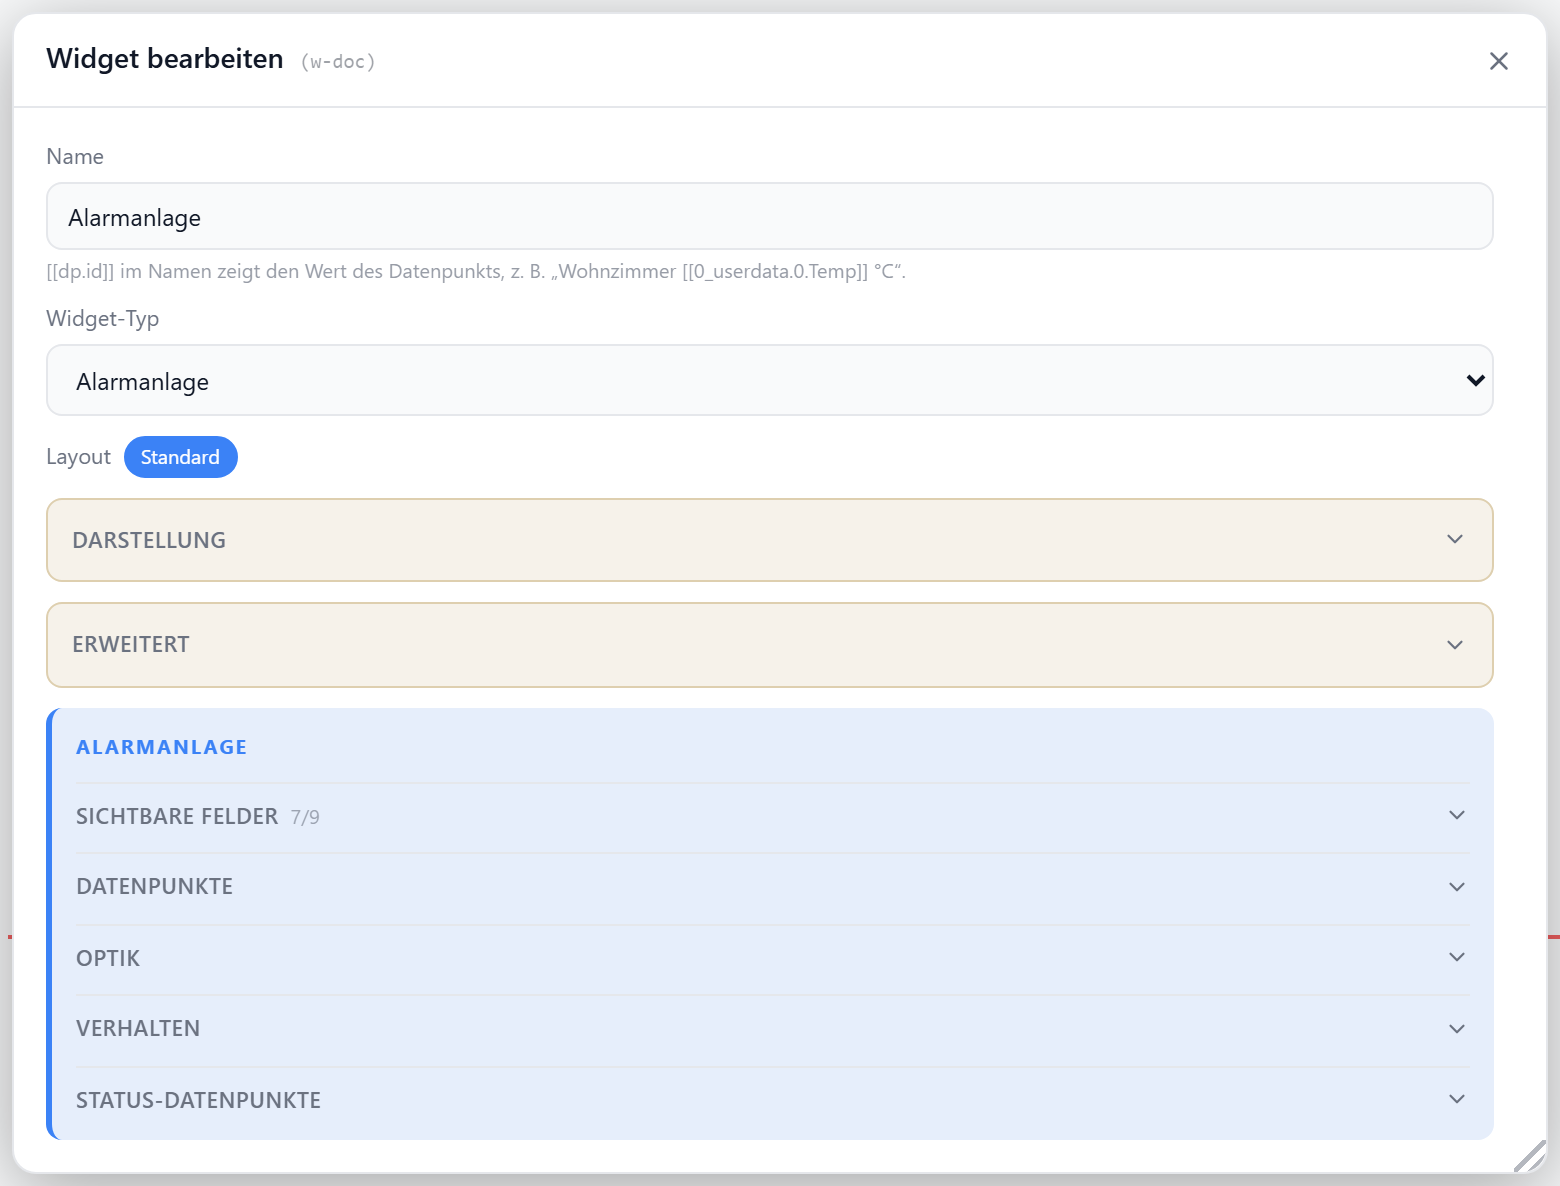
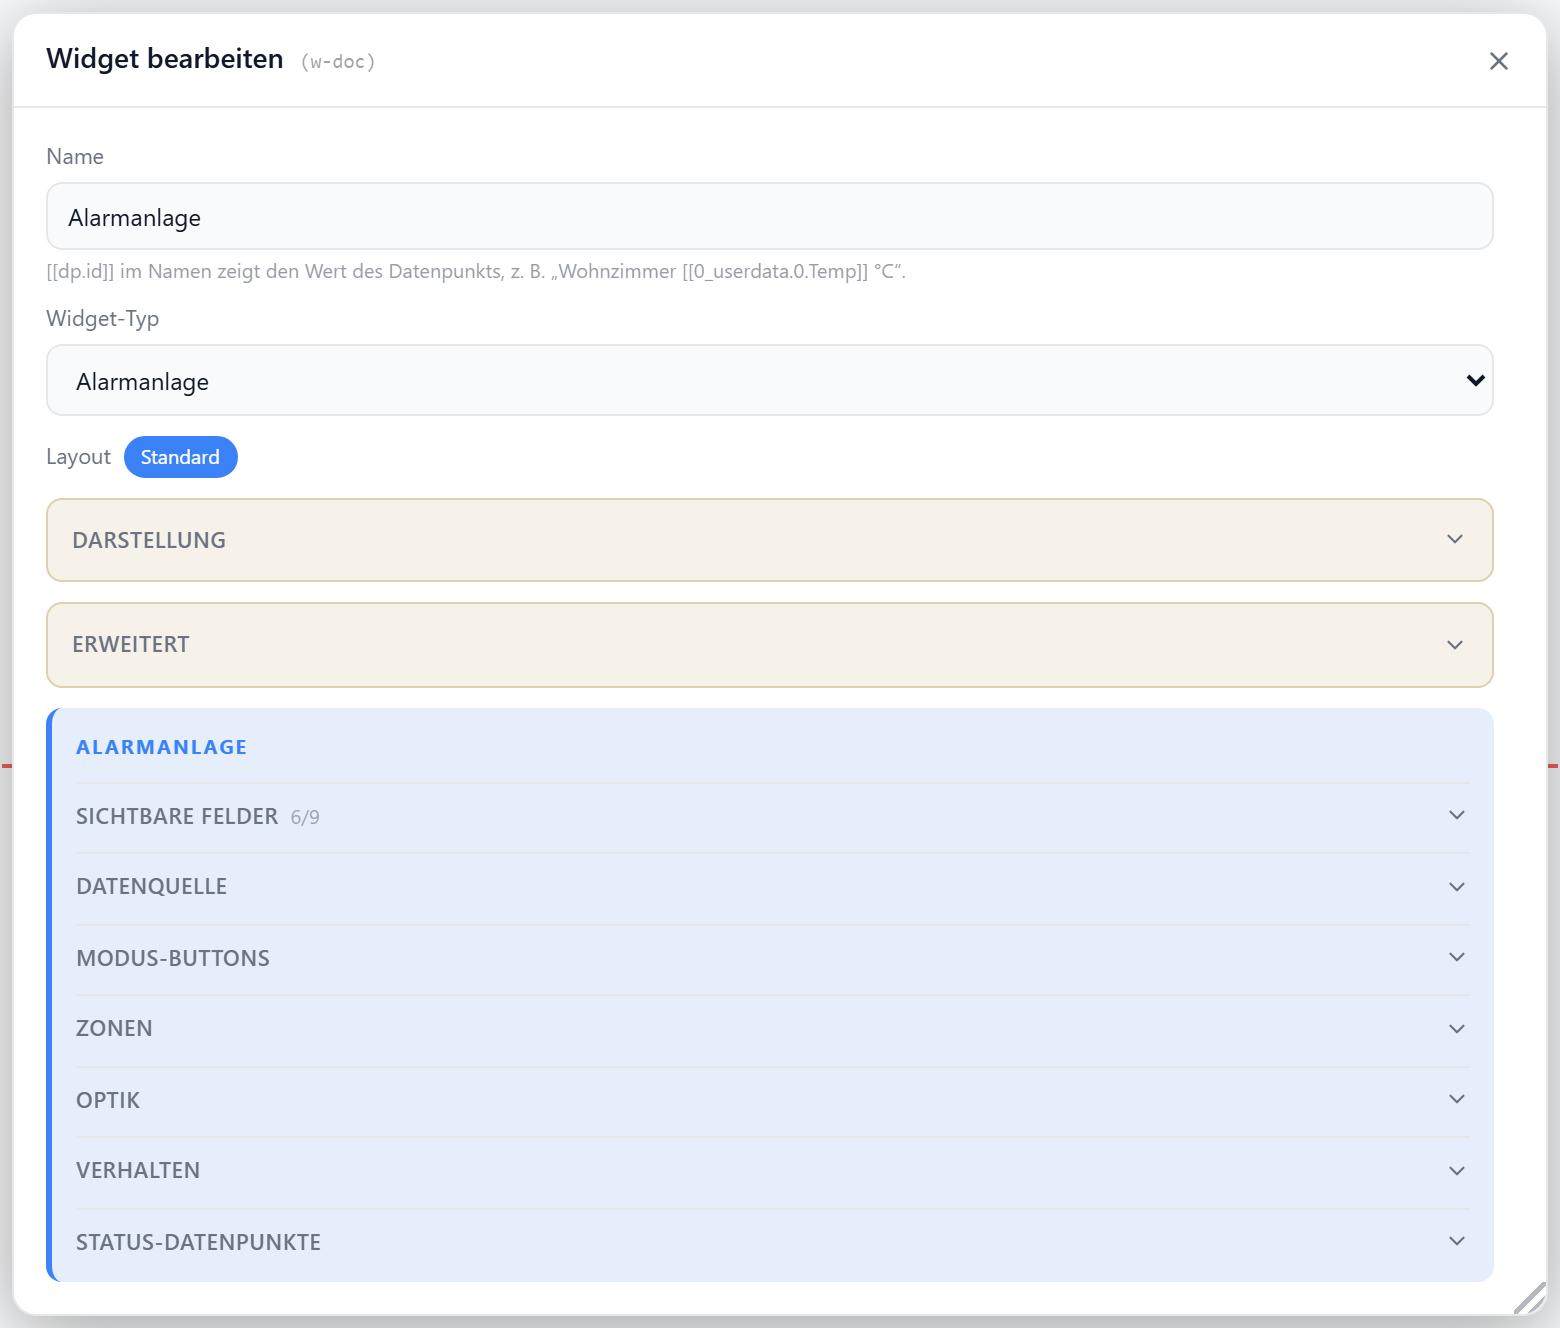
docs(alarm): refresh settings screenshots, drop unused translation keys (#1037)

diff --git a/src-vis/i18n/en.ts b/src-vis/i18n/en.ts
@@ -3325,10 +3325,6 @@ export const en: Record<TranslationKey, string> = {
     'alarm.cfg.prefix': 'Alarm instance (prefix)',
     'alarm.cfg.showHeader': 'Status header',
     'alarm.cfg.showModes': 'Mode buttons',
-    'alarm.cfg.showModeOff': '"Off" button',
-    'alarm.cfg.showModeSharp': '"Armed" button',
-    'alarm.cfg.showModeInside': '"Inside" button',
-    'alarm.cfg.showModeNight': '"Night" button',
     'alarm.cfg.showDelay': '"With delay" button',
     'alarm.cfg.showCountdown': 'Countdown display',
     'alarm.cfg.showCircuits': 'Open circuits / warnings',

diff --git a/src-vis/i18n/de.ts b/src-vis/i18n/de.ts
@@ -3357,10 +3357,6 @@ export const de = {
     'alarm.cfg.prefix': 'Alarm-Instanz (Prefix)',
     'alarm.cfg.showHeader': 'Status-Kopfzeile',
     'alarm.cfg.showModes': 'Modus-Buttons',
-    'alarm.cfg.showModeOff': 'Button „Aus“',
-    'alarm.cfg.showModeSharp': 'Button „Scharf“',
-    'alarm.cfg.showModeInside': 'Button „Innen“',
-    'alarm.cfg.showModeNight': 'Button „Nacht“',
     'alarm.cfg.showDelay': '„Mit Verzögerung“-Button',
     'alarm.cfg.showCountdown': 'Countdown-Anzeige',
     'alarm.cfg.showCircuits': 'Offene Kreise / Warnungen',
